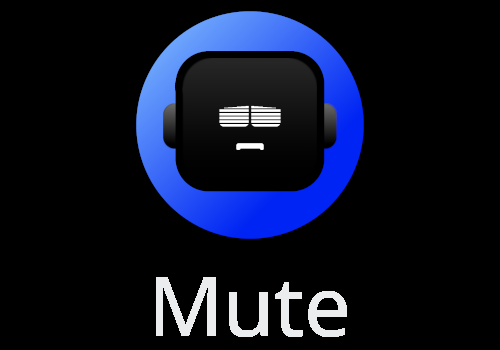
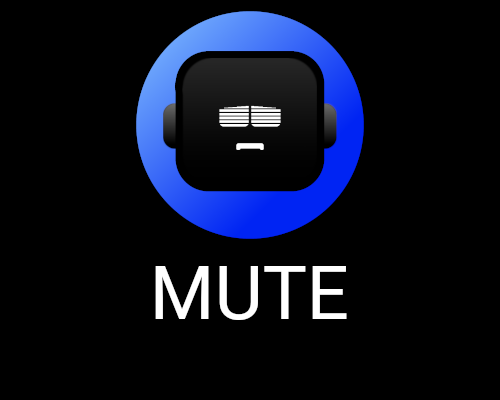
Revu de la partie mute

diff --git a/src/SixGUI.py b/src/SixGUI.py
@@ -18,6 +18,7 @@ class six_gui(aTk) :
         self.__nameSoft = "Arrera Six"
         self.__sixSpeaking = bool
         self.__version = version
+        self.__mute_is_enable = False
 
         # Objet
         self.__assistant_six = brain
@@ -59,7 +60,7 @@ class six_gui(aTk) :
             self.__etatConnexion = False
 
         # Instantation de l'objet language
-        self.__language = CLanguageSIX(resource_path("FileJSON/phraseSix.json"),
+        self.__language = language_six(resource_path("FileJSON/phraseSix.json"),
                                        resource_path("FileJSON/aideSix.json"),
                                        resource_path("FileJSON/firstBootSix.json"))
 
@@ -312,16 +313,27 @@ class six_gui(aTk) :
     def __canvas_mute(self):
         c1 = aBackgroundImage(self,background_light=self.__dir_GUIl_light+self.__file_img_gui[4],
                              background_dark=self.__dir_GUI_dark+self.__file_img_gui[4],
-                             width=500,height=350)
+                             width=500,height=400,fg_color=("#ffffff","#000000"))
 
         c2 = aBackgroundImage(self,background_light=self.__dir_GUIl_light+self.__file_img_gui[5],
                               background_dark=self.__dir_GUI_dark+self.__file_img_gui[5],
-                              width=500,height=350)
+                              width=500,height=400,fg_color=("#ffffff","#000000"))
 
-        self.__btn_stop_mute = [aButton(c1, text="Demute", size=15, command=self.__quitMute),
-                                aButton(c2, text="Demute",size=15, command=self.__quitMute)]
-        self.__btn_quit_mute = [aButton(c1, text="Quitter", size=15, command=self.__quit),
-                                aButton(c2, text="Quitter",size=15, command=self.__quit)]
+        self.__btn_stop_mute = [aButton(c1, text="Demute", dark_color="#1f1f1f", light_color="#e0e0e0",
+                                        hover_color=("#949494","#505050"), size=20,
+                                        light_text_color="#000000", dark_text_color="#ffffff",
+                                        command=self.__stopping_mode_mute),
+                                aButton(c2, text="Demute", dark_color="#1f1f1f", light_color="#e0e0e0",
+                                        hover_color=("#949494","#505050"), size=20,
+                                        light_text_color="#000000", dark_text_color="#ffffff",
+                                        command=self.__stopping_mode_mute)]
+        self.__btn_quit_mute = [aButton(c1, text="Quitter",dark_color="#1f1f1f", light_color="#e0e0e0",
+                                        hover_color=("#949494","#505050"), size=20,
+                                        light_text_color="#000000",dark_text_color="#ffffff",
+                                        command=self.__quit),
+                                aButton(c2, text="Quitter",dark_color="#1f1f1f", light_color="#e0e0e0",
+                                        light_text_color="#000000",dark_text_color="#ffffff",
+                                        hover_color=("#949494","#505050"),size=20, command=self.__quit)]
 
         for i in self.__btn_stop_mute:
             i.place(relx=0, rely=1, anchor='sw')
@@ -381,6 +393,8 @@ class six_gui(aTk) :
             self.__quit()
     
     def __quit(self):
+        if self.__mute_is_enable :
+            self.__stopping_mode_mute()
         self.__sequenceArret()
         if self.__objOS.osWindows() :
             os.kill(os.getpid(), signal.SIGINT)
@@ -593,7 +607,7 @@ class six_gui(aTk) :
                 self.__activeParametre()
                 return
             elif "mute" in content or "silence" in content:
-                self.__viewMute()
+                self.__active_mode_mute()
                 return
             else :
                 self.__th_reflect = th.Thread(target=self.__assistant_six.neuron, args=(content,))
@@ -745,28 +759,27 @@ class six_gui(aTk) :
         else :
             self.__quitActu()
     
-    def __viewMute(self):
+    def __active_mode_mute(self):
         self.__sequenceParole(self.__language.getPhActiveMute())
         self.__clearView()
         self.__stopingTriggerWord()
         self.__entryUser.place_forget()
-        self.maxsize(500,350)
-        self.minsize(500,350)
         self.update()
         nb = random.randint(0,1)
         self.__L_c_mute[nb].place(x=0, y=0)
+        self.__mute_is_enable = True
     
-    def __quitMute(self):        
+    def __stopping_mode_mute(self):
         self.__clearView()
-        self.maxsize(500,400)
-        self.minsize(500,400)
         self.update()
         self.__L_c_mute[0].place_forget()
         self.__L_c_mute[1].place_forget()
-        self.__entryUser.placeBottomCenter()
         self.update()
         self.__sequenceParole(self.__language.getPhQuitMute())
+        self.__entryUser.placeBottomCenter()
+        self.__btnParametre.placeBottomLeft()
         self.__startingTriggerWord()
+        self.__mute_is_enable = False
     
     def __microTriggerEnable(self):
         self.__labelTriggerMicro.place(relx=1.0, rely=0.0, anchor='ne')

diff --git a/src/languageSIX.py b/src/languageSIX.py
@@ -1,6 +1,6 @@
 from librairy.travailJSON import *
 
-class CLanguageSIX :
+class language_six :
     def __init__(self, fileLanguage:str, fileHelp:str,fileFirstBoot:str):
         self.__language = jsonWork(fileLanguage)
         self.__help = jsonWork(fileHelp)
